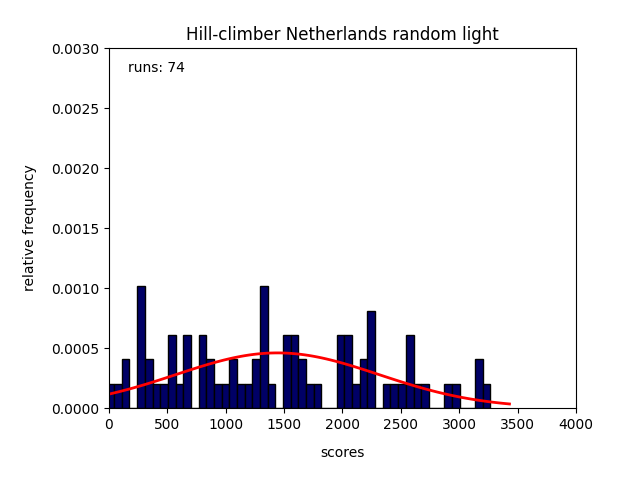
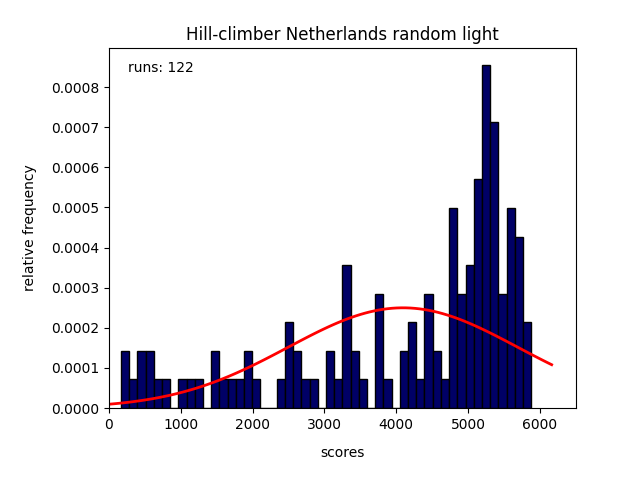
visualisation presentation

diff --git a/code/visualisation/visualisation_experiments_script.py b/code/visualisation/visualisation_experiments_script.py
@@ -131,6 +131,7 @@ if __name__ == "__main__":
 
     #results_dict = read_csv(f"../../data/annealing/experiment_annealing_grid_search_netherlands_logaritmic_200.csv", 'run_id')
     #onegrid_hc(results_dict, f"../../docs/presentation/assets/plots_def/line_annealing_netherlands_logaritmic_200_valid_heavy", "Simulated annealing Netherlands logarithmic 200 valid heavy", "valid", "heavy", 'linediagram')
+    """
     best_scores_lists = []
     legend = []
 
@@ -173,7 +174,7 @@ if __name__ == "__main__":
     legend.append("Exponential")
 
     make_line_diagram_multiple_lines(best_scores_lists, "Simulated Annealing comparison cooling schemes 200", "../../docs/presentation/assets/plots_def/comparison_annealing_holland_200", True, None, legend)
-
+    """
 
 
 
@@ -185,11 +186,12 @@ if __name__ == "__main__":
     #make_plots_ppa('holland', 'random', 'sequential')
     #make_plots_ppa_nl('netherlands', 'hill_climber', 'sequential')
 
-    #results_dict = read_csv(f"../../data/annealing/experiment_annealing_grid_search_netherlands_logaritmic_200.csv", 'run_id')
+    results_dict = read_csv(f"../../data/hill_climber/experiment_hill_climber_grid_search_netherlands.csv", 'run_id')
     #onegrid_hc(results_dict, f"../../docs/presentation/assets/plots_def/line_annealing_netherlands_logaritmic_200_valid_heavy", "Simulated annealing Netherlands logarithmic 200 valid heavy", "valid", "heavy", 'linediagram')
 
 
 
     #onegrid_hc(results_dict, f"../../docs/presentation/assets/plots_def/histo_hill_climber_holland_valid_heavy", "Hill-climber Holland valid heavy", "valid", "heavy", 'histogram')
     #onegrid_hc(results_dict, f"../../docs/presentation/assets/plots_def/histo_hill_climber_holland_random_heavy", "Hill-climber Holland random heavy", "random", "heavy", 'histogram')
-    #onegrid_hc(results_dict, f"../../docs/presentation/assets/plots_def/histo_hill_climber_netherlands_random_heavy", "Hill-climber Netherlands random heavy", "random", "heavy", 'histogram')
+    onegrid_hc(results_dict, f"../../docs/presentation/assets/plots_def/histo_hill_climber_netherlands_random_heavy", "Hill-climber Netherlands random heavy", "random", "heavy", 'histogram')
+    onegrid_hc(results_dict, f"../../docs/presentation/assets/plots_def/histo_hill_climber_netherlands_random_light", "Hill-climber Netherlands random light", "random", "light", 'histogram')

diff --git a/code/visualisation/results.py b/code/visualisation/results.py
@@ -109,3 +109,24 @@ def all_scores(states_dict: dict) -> list:
         scores.append(int(round(float(state["score"]), 0)))
 
     return scores
+
+def all_p(states_dict: dict) -> list:
+    """
+    makes a list with all the scores from every state
+
+    pre: 
+        states_dict is a dict with which maintains state dictionaries  
+
+    returns:
+        the list with scores
+    """
+
+    # make an empty list to save the scores into
+    scores = []
+
+    # add all the scores from every state to the list
+    for state in states_dict.values():
+        scores.append(float(state["p"]))
+
+    return scores
+

diff --git a/code/visualisation/statistics.py b/code/visualisation/statistics.py
@@ -38,7 +38,7 @@ def make_histogram(values: list, title_histogram: str, filepath: str, text: str 
     #if 'netherlands' in title_list:
        # plt.xlim(0, 9300)
     #elif 'holland' in title_list:
-    plt.xlim(7000, 9500)
+    plt.xlim(0, 6500)
     plt.annotate(text, xy=(0.2, 0.85), fontsize = 10, xycoords='figure fraction')
     #plt.ylim(0, 0.003)
     plt.subplots_adjust(left=0.17, right=0.9, top=0.9, bottom=0.15)
